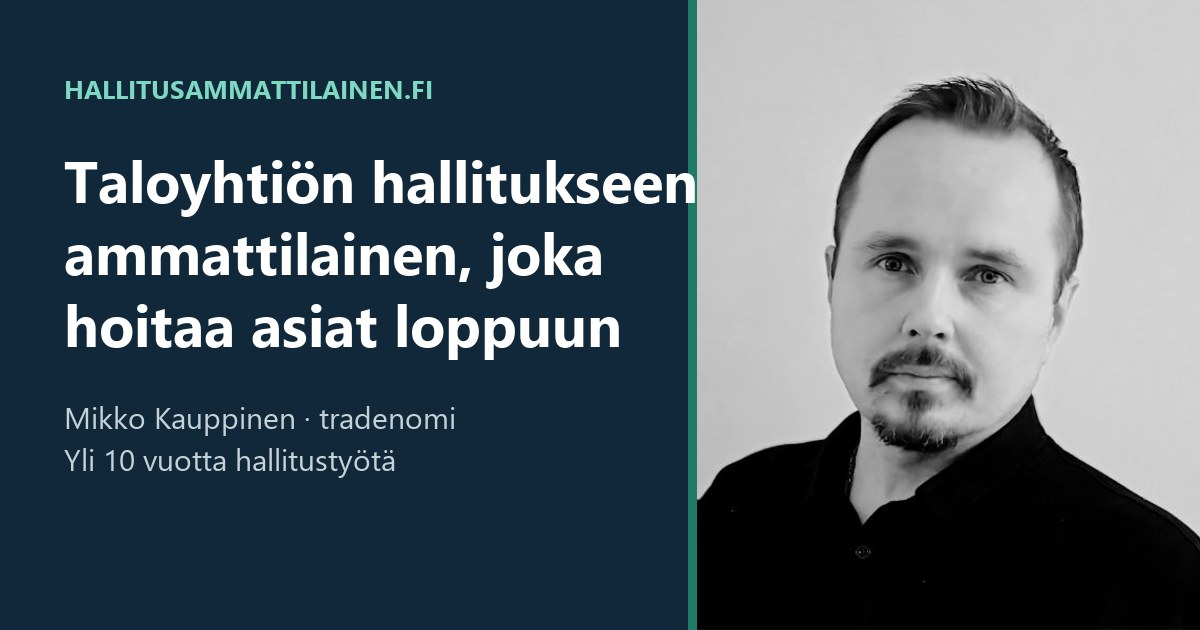
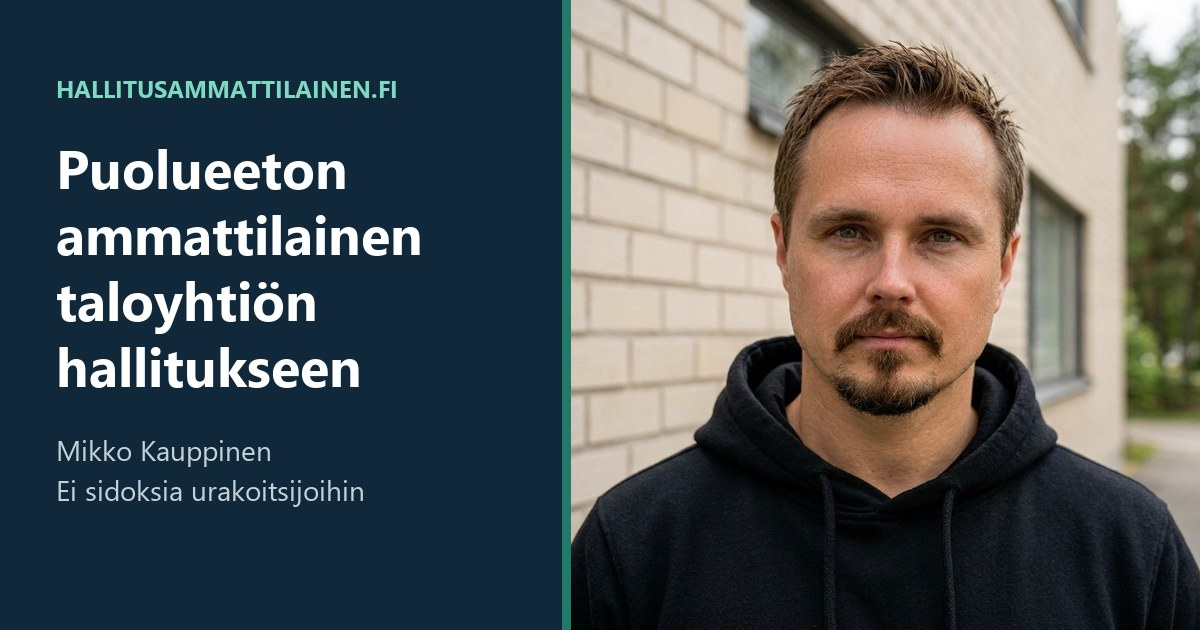
Mikon kuvat sivulle: piha, remontti, kokous, tekninen tila, uusi jakokuva

diff --git a/index.html b/index.html
@@ -17,7 +17,7 @@
 <meta property="og:url" content="https://hallitusammattilainen.fi/">
 <meta name="theme-color" content="#11283A">
 <script type="application/ld+json">
-{"@context":"https://schema.org","@type":"ProfessionalService","name":"Hallitusammattilainen","url":"https://hallitusammattilainen.fi/","email":"mikko.kauppinen@hallitusammattilainen.fi","areaServed":"FI","description":"Puolueeton ulkopuolinen hallituksen puheenjohtaja ja hallituksen jäsen taloyhtiöihin.","founder":{"@type":"Person","name":"Mikko Kauppinen","jobTitle":"Hallitusammattilainen","sameAs":"https://www.linkedin.com/in/mikko-kauppinen-8005861"}}
+{"@context":"https://schema.org","@type":"ProfessionalService","name":"Hallitusammattilainen","url":"https://hallitusammattilainen.fi/","image":"https://hallitusammattilainen.fi/kuvat/profiili.jpg","email":"mikko.kauppinen@hallitusammattilainen.fi","areaServed":"FI","description":"Puolueeton ulkopuolinen hallituksen puheenjohtaja ja hallituksen jäsen taloyhtiöihin.","founder":{"@type":"Person","name":"Mikko Kauppinen","jobTitle":"Hallitusammattilainen","sameAs":"https://www.linkedin.com/in/mikko-kauppinen-8005861"}}
 </script>
 </head>
 <body>
@@ -78,6 +78,9 @@
       <h2 id="saatte-otsikko">Vahva hallitus tekee neljä asiaa hyvin</h2>
       <p>Vapaaehtoinen hallitus jaksaa usein hoitaa välttämättömän. Ammattilainen hoitaa myös sen, mikä ratkaisee taloyhtiön arvon kymmenen vuoden päästä.</p>
     </div>
+    <figure class="wide">
+      <picture><source srcset="kuvat/remontti.webp" type="image/webp"><img src="kuvat/remontti.jpg" width="1264" height="848" loading="lazy" alt="Mikko Kauppinen kypärä kainalossa julkisivuremontin työmaalla kerrostalon edessä"></picture>
+    </figure>
     <div class="pillars">
       <article>
         <span class="num">Ennakointi</span>
@@ -109,6 +112,10 @@
       <span class="eyebrow">Miksi maksaa ammattilaiselle</span>
       <h2 id="miksi-otsikko">Hallituksen palkkio on pieni osa siitä, mitä virheet maksavat</h2>
     </div>
+    <div class="split">
+    <figure class="side">
+      <picture><source srcset="kuvat/tekniikka.webp" type="image/webp"><img src="kuvat/tekniikka.jpg" width="800" height="993" loading="lazy" alt="Mikko Kauppinen taskulampun kanssa kerrostalon lämmönjakohuoneessa"></picture>
+    </figure>
     <div class="why">
       <div>
         <svg width="34" height="34" viewBox="0 0 24 24" fill="none" stroke="currentColor" stroke-width="1.8" stroke-linecap="round" stroke-linejoin="round" aria-hidden="true"><path d="M3 20h18"/><path d="M5 20V10l7-5 7 5v10"/><path d="M9 20v-6h6v6"/></svg>
@@ -130,6 +137,7 @@
         <h3>Kevyempi taakka muille</h3>
         <p>Muiden hallituksen jäsenten ei tarvitse kantaa yksin vastuuta asioista, joihin heillä ei ole aikaa tai osaamista.</p>
       </div>
+    </div>
     </div>
   </div>
 </section>
@@ -179,7 +187,10 @@
     <div class="head" style="margin-bottom:0">
       <span class="eyebrow">Uudet tavat toimia</span>
       <h2 id="tavat-otsikko">Joustava hallitustyö, joka sopii osakkaiden arkeen</h2>
-      <p>Hyvä hallinto ei vaadi paperipinoja eikä iltoja kerhohuoneessa. Otan taloyhtiössä käyttöön tavat, jotka säästävät kaikkien aikaa.</p>
+      <p>Hyvä hallinto ei vaadi paperipinoja eikä pitkiä iltoja kerhohuoneessa. Otan taloyhtiössä käyttöön tavat, jotka säästävät kaikkien aikaa.</p>
+      <figure class="wide" style="margin-top:12px">
+        <picture><source srcset="kuvat/kokous.webp" type="image/webp"><img src="kuvat/kokous.jpg" width="1264" height="848" loading="lazy" alt="Mikko Kauppinen käy pohjapiirustuksia läpi osakkaiden kanssa taloyhtiön kerhohuoneessa"></picture>
+      </figure>
     </div>
     <ul class="checks">
       <li><b>Etä- ja hybridikokoukset</b> hallitukselle, ja yhtiökokoukseen silloin kun yhtiöjärjestys sen sallii</li>
@@ -211,7 +222,7 @@
 
 <section class="sec me" id="mikko" aria-labelledby="mikko-otsikko">
   <div class="in">
-    <div class="photo-slot" aria-hidden="true"><span>MK</span></div>
+    <picture><source srcset="kuvat/mikko-piha.webp" type="image/webp"><img src="kuvat/mikko-piha.jpg" width="742" height="928" loading="lazy" alt="Mikko Kauppinen kerrostalon pihalla"></picture>
     <div class="txt">
       <span class="eyebrow">Kuka olen</span>
       <h2 id="mikko-otsikko" style="font-size:clamp(28px,3.6vw,40px);font-weight:800">Mikko Kauppinen</h2>

diff --git a/tyyli.css b/tyyli.css
@@ -73,6 +73,14 @@ p{margin:0}
 .checks li{padding:14px 0 14px 34px;border-bottom:1px solid var(--line);color:var(--muted);font-size:17px;position:relative}
 .checks li::before{content:"✓";position:absolute;left:4px;top:13px;color:var(--acc);font-weight:800}
 .checks b{color:var(--ink)}
+figure{margin:0}
+.wide img{width:100%;height:auto;border-radius:14px;aspect-ratio:1264/848;object-fit:cover}
+.sec.tint .wide{margin-bottom:clamp(24px,4vw,40px)}
+.split{display:grid;grid-template-columns:.75fr 1.6fr;gap:clamp(24px,4vw,56px);align-items:start}
+.split .why{grid-template-columns:repeat(2,minmax(0,1fr))}
+.side img{width:100%;height:auto;border-radius:14px}
+@media (max-width:820px){.split{grid-template-columns:1fr}.side{max-width:420px}}
+@media (max-width:560px){.split .why{grid-template-columns:1fr}}
 .photo-slot{aspect-ratio:4/5;max-width:380px;width:100%;border-radius:16px;background:var(--tint);display:grid;place-items:center;font-family:var(--display);font-weight:800;font-size:64px;color:#B9D3CC}
 .sec{padding-block:clamp(48px,7vw,88px)}
 .sec.tint{background:var(--tint)}
@@ -108,7 +116,7 @@ p{margin:0}
 .me .txt p{max-width:62ch}
 .facts{display:grid;grid-template-columns:repeat(auto-fit,minmax(180px,1fr));gap:12px;margin-top:8px}
 .facts div{border:1px solid var(--line);border-radius:12px;padding:14px 16px}
-.facts b{font-family:var(--display);font-size:24px;display:block;color:var(--acc-d)}
+.facts b{font-family:var(--display);font-size:clamp(18px,1.8vw,22px);overflow-wrap:anywhere;display:block;color:var(--acc-d)}
 .facts span{font-size:15px;color:var(--muted)}
 
 .faq{display:grid;gap:10px;max-width:820px}
